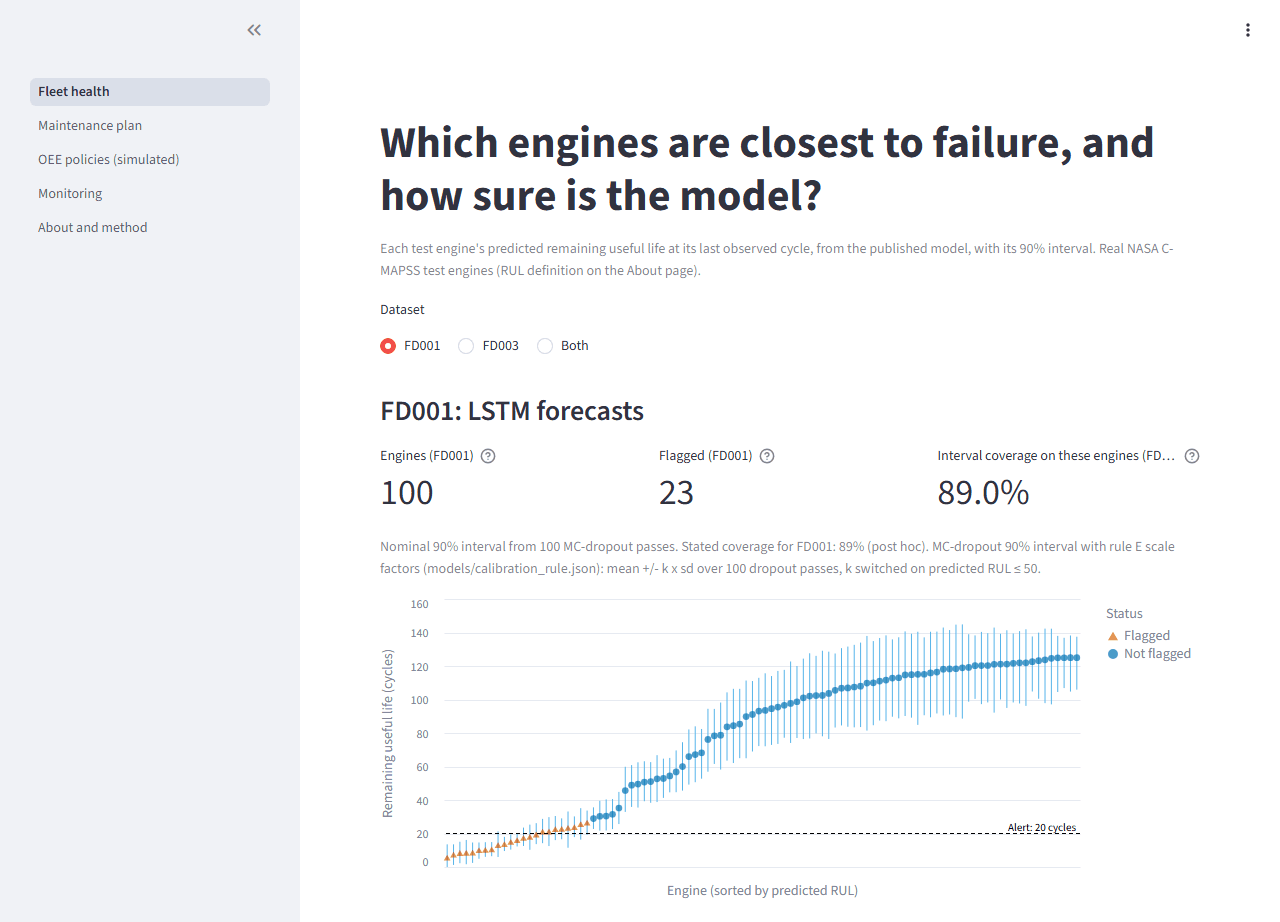
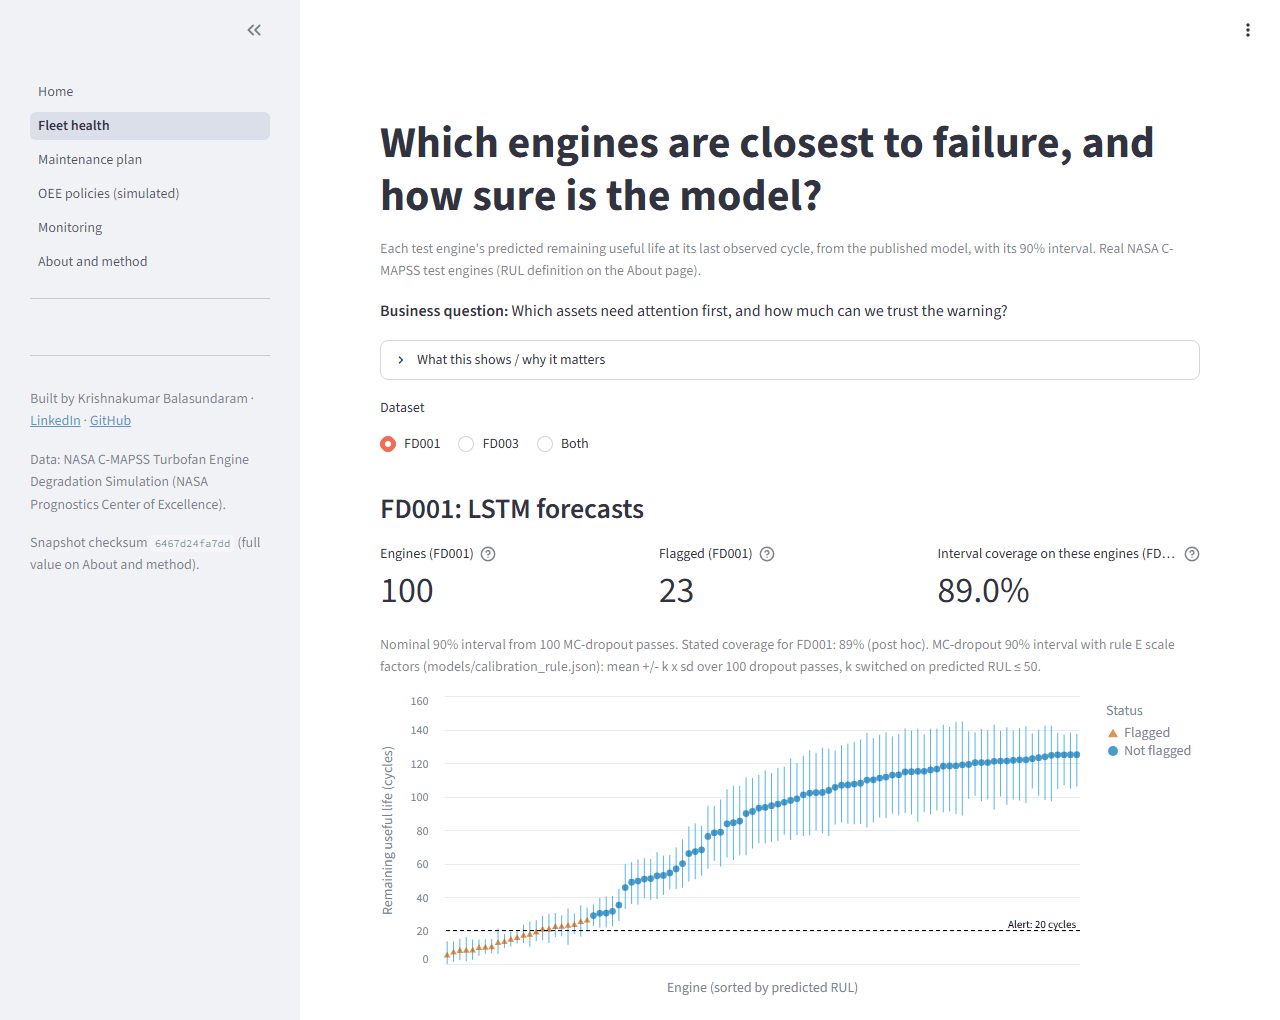
Phase 9 Step 3: Home tiles in two rows with full labels, viewer toolbar, hero and README screenshots
Screenshots were cut off at four tiles per row, so the tiles are two by two with shorter labels (the
Phase 8 verifier matches the same labels; still 5/5, 594 values). Home's business question says the
downtime is on a simulated plant (found by Phase 9 check W5). The viewer toolbar hides the developer
'Deploy' button. Screenshots from a local run of this code (same snapshots, data checksum 6467d24f...),
because the live app runs the phase8 branch until it is redeployed from main; the capture script now
accepts a localhost URL and crops Home below its link buttons.

diff --git a/scripts/capture_phase8_screenshots.py b/scripts/capture_phase8_screenshots.py
@@ -27,11 +27,13 @@ ROOT = Path(__file__).resolve().parents[1]
 OUT = ROOT / "docs" / "figures" / "phase8"
 ARGS = [a for a in sys.argv[1:] if not a.startswith("--")]
 URL = (ARGS[0] if ARGS else (ROOT / "dashboards" / "app_url.txt").read_text().strip()).rstrip("/")
-PAGES = {"fleet": "", "plan": "plan", "oee": "oee", "monitoring": "monitoring", "about": "about"}
+PAGES = {"home": "", "fleet": "fleet", "plan": "plan", "oee": "oee", "monitoring": "monitoring", "about": "about"}
 PHONE_WIDTH = 375
 
 
 def app_url(path: str) -> str:
+    if "localhost" in URL or "127.0.0.1" in URL:
+        return f"{URL}/{path}"  # a local `streamlit run`
     return f"{URL}/~/+/{path}"  # the app itself, without Community Cloud's outer frame
 
 
@@ -120,19 +122,22 @@ def main() -> int:
 def readme() -> int:
     from PIL import Image
 
-    out = ROOT / "docs" / "figures" / "readme"
-    out.mkdir(parents=True, exist_ok=True)
     with sync_playwright() as p:
         browser = p.chromium.launch()
         page = browser.new_page(viewport={"width": 1280, "height": 900}, color_scheme="light")
         wake(page)
-        for name in ("fleet", "plan", "oee"):
+        for name in ("home", "fleet", "plan", "oee"):
+            # Home (the README hero) has no chart: crop below its last link button; it goes to the Phase 9 figures
+            out = ROOT / "docs" / "figures" / ("phase9" if name == "home" else "readme")
+            out.mkdir(parents=True, exist_ok=True)
             load(page, PAGES[name])
-            chart = page.locator('[data-testid="stVegaLiteChart"], .vega-embed').first
-            chart.wait_for(state="visible", timeout=60_000)
+            anchor = (page.locator('[data-testid="stLinkButton"]').last if name == "home"
+                      else page.locator('[data-testid="stVegaLiteChart"], .vega-embed').first)
+            anchor.wait_for(state="visible", timeout=60_000)
             m = measure(page)
             full_page_shot(page, out / f"app_{name}.png", 1280, m["content_height"])
-            bottom = chart.bounding_box()["y"] + chart.bounding_box()["height"] + 6
+            box = anchor.bounding_box()
+            bottom = box["y"] + box["height"] + (24 if name == "home" else 6)
             page.set_viewport_size({"width": 1280, "height": 900})
             img = Image.open(out / f"app_{name}.png").convert("RGB")
             img = img.crop((0, 0, img.width, min(img.height, int(bottom))))

diff --git a/app/views/home.py b/app/views/home.py
@@ -19,16 +19,17 @@ pooled = pol[(pol.scope == "Pooled") & (pol.kind == "policy")].set_index("policy
 ORDER = ["Predictive", "Fixed interval", "Run to failure"]
 
 st.subheader("Headline results")
-c = st.columns(4)
-c[0].metric(f"Forecast error on unseen engines, {pub} (FD003 RMSE, cycles)", C.num(fd3.loc[pub, "rmse"]),
-            help=f"{C.define('RMSE')} The published model on NASA FD003, a dataset no model choice was made on.")
-c[1].metric("Forecast error on unseen engines, XGBoost (FD003 RMSE, cycles)", C.num(fd3.loc["XGBoost (168 features)", "rmse"]),
-            help=f"{C.define('RMSE')} The strongest non-deep baseline on the same engines.")
-c[2].metric("OEE: predictive / fixed interval / run to failure (pooled, simulated)",
-            " / ".join(C.pct(pooled.loc[p, "oee"]) for p in ORDER), help=C.define("OEE"))
-c[3].metric("Unplanned failures: predictive / fixed interval / run to failure (pooled, simulated)",
-            " / ".join(str(int(pooled.loc[p, "unplanned_failures"])) for p in ORDER),
-            help="Simulated machines whose engine failed before it was serviced, out of the same machines under each policy.")
+r1 = st.columns(2)
+r1[0].metric(f"{pub} forecast error on unseen engines (FD003 RMSE, cycles)", C.num(fd3.loc[pub, "rmse"]),
+             help=f"{C.define('RMSE')} The published model on NASA FD003, a dataset no model choice was made on.")
+r1[1].metric("XGBoost forecast error on unseen engines (FD003 RMSE, cycles)", C.num(fd3.loc["XGBoost (168 features)", "rmse"]),
+             help=f"{C.define('RMSE')} The strongest non-deep baseline on the same engines.")
+r2 = st.columns(2)
+r2[0].metric("Simulated OEE: predictive / fixed / run to failure", " / ".join(C.pct(pooled.loc[p, "oee"]) for p in ORDER),
+             help=f"{C.define('OEE')} Pooled over the {int(pooled.loc['Predictive', 'machines'])} simulated machines.")
+r2[1].metric("Simulated unplanned failures: predictive / fixed / run to failure",
+             " / ".join(str(int(pooled.loc[p, "unplanned_failures"])) for p in ORDER),
+             help="Simulated machines whose engine failed before it was serviced, out of the same machines under each policy.")
 C.simulated_notice()
 
 st.subheader("How to read this app (one minute)")

diff --git a/dashboards/verify_phase8.py b/dashboards/verify_phase8.py
@@ -215,11 +215,11 @@ def expected_metrics(T, page: str, view: dict) -> dict:
     out = {}
     if page == "home":
         pub = "LSTM" if T["published_model"] == "LSTM" else "XGBoost (168 features)"
-        out[f"Forecast error on unseen engines, {T['published_model']} (FD003 RMSE, cycles)"] = f"{T['models'][('FD003', pub)]['rmse']:.2f}"
-        out["Forecast error on unseen engines, XGBoost (FD003 RMSE, cycles)"] = f"{T['models'][('FD003', 'XGBoost (168 features)')]['rmse']:.2f}"
+        out[f"{T['published_model']} forecast error on unseen engines (FD003 RMSE, cycles)"] = f"{T['models'][('FD003', pub)]['rmse']:.2f}"
+        out["XGBoost forecast error on unseen engines (FD003 RMSE, cycles)"] = f"{T['models'][('FD003', 'XGBoost (168 features)')]['rmse']:.2f}"
         order = ("Predictive", "Fixed interval", "Run to failure")
-        out["OEE: predictive / fixed interval / run to failure (pooled, simulated)"] = " / ".join(pct(T["oee"][("Pooled", p)]["oee"]) for p in order)
-        out["Unplanned failures: predictive / fixed interval / run to failure (pooled, simulated)"] = " / ".join(
+        out["Simulated OEE: predictive / fixed / run to failure"] = " / ".join(pct(T["oee"][("Pooled", p)]["oee"]) for p in order)
+        out["Simulated unplanned failures: predictive / fixed / run to failure"] = " / ".join(
             str(T["oee"][("Pooled", p)]["unplanned_failures"]) for p in order)
     elif page == "fleet":
         dss = ["FD001", "FD003"] if view["dataset"] == "Both" else [view["dataset"]]

diff --git a/app/common.py b/app/common.py
@@ -97,7 +97,7 @@ def define(term: str) -> str:
 
 # One-sentence business question per page (operations language), and what the page shows and why it matters
 BUSINESS = {
-    "home": "Can forecasting each machine's remaining life cut unplanned downtime without wasting parts?",
+    "home": "Can forecasting each machine's remaining life cut unplanned downtime (here, on a simulated plant) without wasting parts?",
     "fleet": "Which assets need attention first, and how much can we trust the warning?",
     "plan": "With limited crews, which jobs go on which day so nothing fails while waiting?",
     "oee": "Does predictive maintenance pay off against a fixed calendar or running to failure?",
